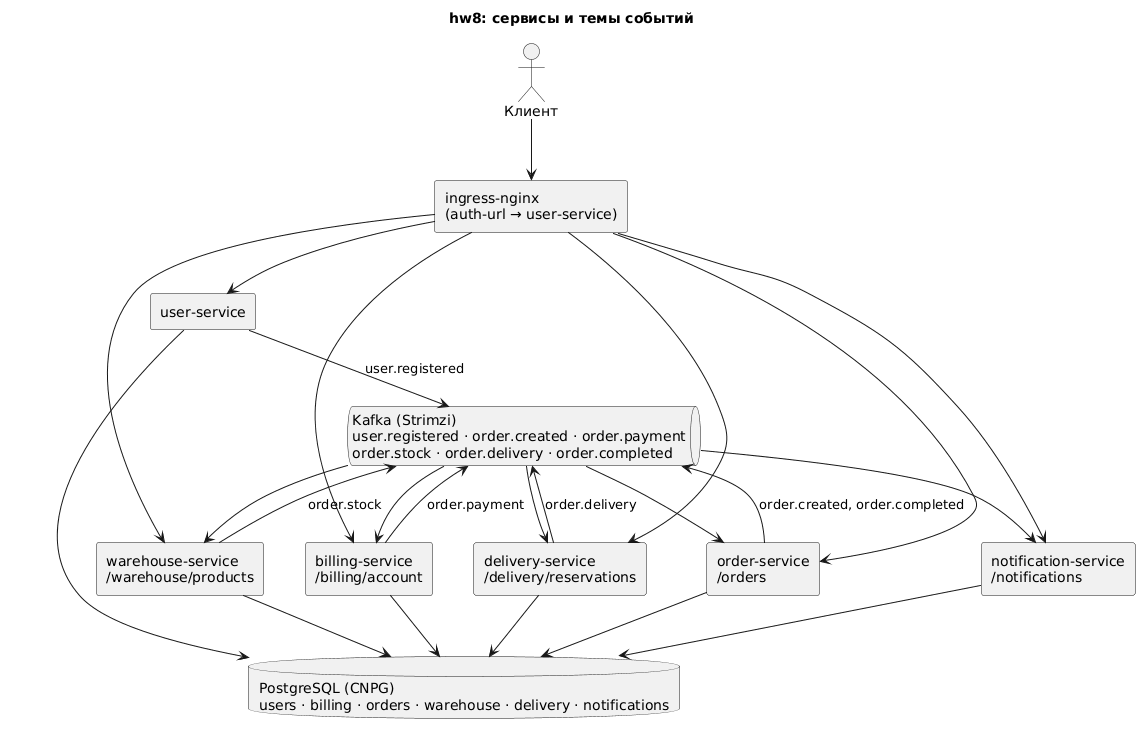
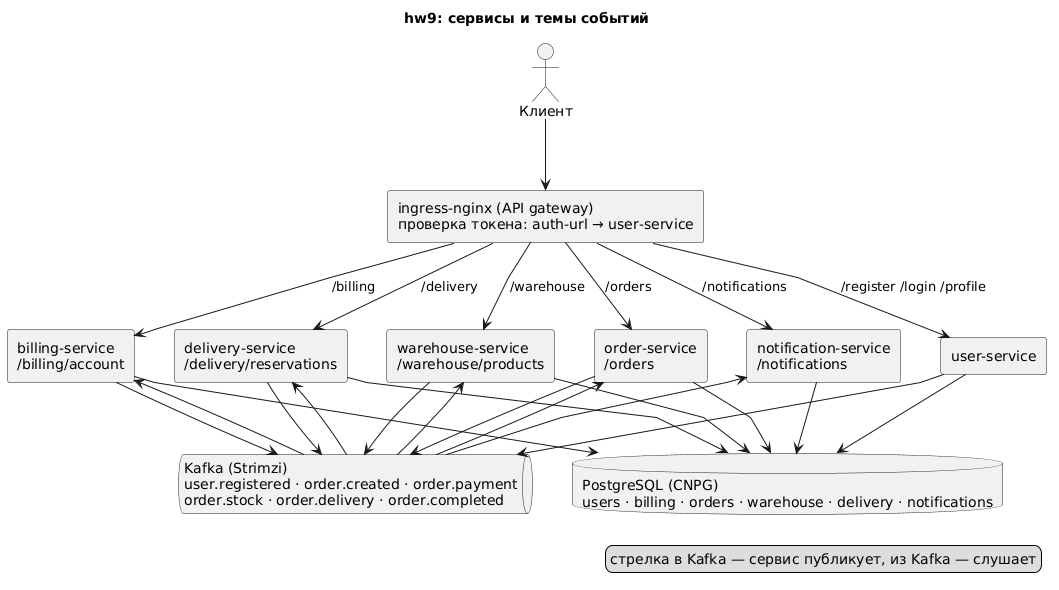
hw9: общий helm-чарт сервисов с values на сервис, схема архитектуры, самодостаточный README с двумя путями установки, порядком удаления и пояснением к повтору событий.

diff --git a/hw9-idempotency/README.md b/hw9-idempotency/README.md
@@ -1,6 +1,7 @@
 # Идемпотентное создание заказа
 
-Сервисы из hw8 без изменений, кроме order-service: метод `POST /orders` стал идемпотентным.
+Те же шесть сервисов, что в саге заказа, с одним изменением в order-service: метод
+`POST /orders` стал идемпотентным.
 Повтор запроса с тем же ключом не создаёт второй заказ, не списывает деньги второй раз и не
 запускает сагу повторно, а возвращает уже созданный заказ.
 
@@ -22,32 +23,70 @@
 транзакции базы заказов, так что два одновременных запроса с одним ключом упрутся в первичный
 ключ `(user_id, key)`, и второй завершится ошибкой вместо дубля.
 
-Что идемпотентно уже с hw8 и почему этого не хватало. В очередях ключ сообщений во всех темах
-саги — `orderId`, а переходы заказа однонаправленные: событие для уже завершённого заказа
-игнорируется, поэтому повторная доставка события не ломает состояние. Но HTTP-вход саги
-защищён не был: два одинаковых `POST /orders` давали два заказа и два списания. Ключ
-идемпотентности закрывает именно эту дыру.
+Почему ключ нужен именно на HTTP-входе. Внутри саги повтор события не страшен: в
+`OrderService.applyStep` заказ в статусе `CONFIRMED` или `CANCELLED` больше не меняется, так
+что если Kafka доставит итог шага второй раз, он будет проигнорирован; ключ сообщений во всех
+темах — `orderId`, поэтому события одного заказа читаются по порядку. А вот вход саги
+защищён не был: два одинаковых `POST /orders` (клиент повторил запрос после таймаута) давали
+два заказа и два списания. Ключ идемпотентности закрывает именно этот случай.
+
+## Архитектура
+
+![Схема](docs/architecture.png)
+
+Шесть сервисов (user, billing, order, warehouse, delivery, notification) в namespace `msa`,
+у каждого своя база в одном кластере PostgreSQL, общая Kafka. Клиент ходит ко всем сервисам
+по HTTP через ingress-nginx, на защищённых путях тот проверяет JWT запросом в user-service
+(`auth-url`) и подставляет `X-User-Id`. Между собой сервисы общаются только событиями: заказ
+проходит сагу `order.created` → `order.payment` → `order.stock` → `order.delivery` →
+`order.completed` с компенсациями при отказе (схема в `docs/saga.png`).
 
 ## API
 
-Как в hw8, изменился только `POST /orders`:
+Все пути, кроме `/register`, `/login` и `/health`, требуют `Authorization: Bearer <token>`.
+Изменился только `POST /orders`.
 
-| Метод | Путь | Заголовки | Ответ |
-|---|---|---|---|
-| `POST /orders` | `{price, productId, quantity, slot}` | `Authorization: Bearer …`, `Idempotency-Key: <до 128 символов>` | 201 заказ; повтор — 201 тот же заказ; другое тело — 422; без ключа — 400 |
+| Метод | Путь | Ответ |
+|---|---|---|
+| `POST /register` | `{username, password, firstName, lastName, email, phone}` | 201 пользователь |
+| `POST /login` | `{username, password}` | 200 `{token, expiresIn}` |
+| `GET /billing/account`, `POST /billing/account/deposit {amount}` | | 200 `{userId, balance}` |
+| `POST /orders` | `{price, productId, quantity, slot}` + заголовок `Idempotency-Key` (до 128 символов) | 201 заказ `NEW`; повтор с тем же ключом — 201 тот же заказ; другое тело — 422; без ключа — 400 |
+| `GET /orders`, `GET /orders/{id}` | | `status`: `NEW`, `PAID`, `RESERVED`, `CONFIRMED`, `CANCELLED` + `reason` |
+| `GET /warehouse/products`, `GET /warehouse/products/{id}` | | `{id, name, available}` |
+| `GET /delivery/reservations` | | резервы курьера пользователя |
+| `GET /notifications` | | письма пользователя |
 
 ## Состав
 
-- `services/order-service/` — пакет `idempotency` (сущность ключа, репозиторий, отпечаток
-  запроса, исключение), миграция `V3__idempotency_keys.sql`, проверка ключа в
-  `OrderService.create`. Остальные сервисы как в hw8, образы с тегом `hw9`.
-- `k8s/`, `kafka/`, `db/`, `docs/` — как в hw8.
+- `services/<имя>/` — шесть Gradle-проектов; в order-service добавлен пакет `idempotency`
+  (сущность ключа, репозиторий, отпечаток запроса, исключение), миграция
+  `V3__idempotency_keys.sql` и проверка ключа в `OrderService.create`. Образы `boldyrevma/<имя>:hw9`.
+- `k8s/` — namespace, Secret, пять `Database`, шесть `KafkaTopic`, по файлу на сервис,
+  два Ingress; `kafka/kafka.yaml` — Kafka для Strimzi; `db/` — values CloudNativePG.
+- `helm/service/` — общий чарт сервиса, `helm/values/<имя>.yaml` — значения шести сервисов.
+- `docs/` — схемы саги и архитектуры; `kind/`, `ingress-nginx/` — кластер и ingress-контроллер.
 - `postman/order-idempotency.postman_collection.json` — сценарий; `postman/newman-output.txt`
   — вывод прогона.
 
+## Кластер и ingress-nginx
+
+```bash
+minikube start --driver=docker --ports=127.0.0.1:80:80,127.0.0.1:443:443 --memory 6g
+# или: kind create cluster --config kind/cluster.yaml
+# в /etc/hosts: 127.0.0.1 arch.homework
+
+kubectl create namespace m
+helm repo add ingress-nginx https://kubernetes.github.io/ingress-nginx/
+helm repo update
+helm install nginx ingress-nginx/ingress-nginx --namespace m -f ingress-nginx/values.yaml
+kubectl -n m rollout status daemonset/nginx-ingress-nginx-controller
+```
+
 ## Установка
 
-Namespace приложения `msa`, операторы в `cnpg-system` и `kafka`; команды те же, что в hw8:
+Namespace приложения `msa`, операторы в своих: CloudNativePG в `cnpg-system`, Strimzi в
+`kafka` (он следит за ресурсами Kafka в `msa`).
 
 ```bash
 helm repo add cnpg https://cloudnative-pg.github.io/charts
@@ -66,11 +105,39 @@ helm install msa-db cnpg/cluster --namespace msa -f db/values.yaml
 kubectl apply -f kafka/kafka.yaml
 kubectl -n msa wait cluster/msa-db --for=condition=Ready --timeout=300s
 kubectl -n msa wait kafka/msa-kafka --for=condition=Ready --timeout=600s
+```
 
+Сервисы, путь 1: манифестами. Одна команда применяет всё по порядку номеров: базы, темы,
+миграции, приложения, Ingress; Job и поды дожидаются базы через initContainer:
+
+```bash
 kubectl apply -f k8s/
 kubectl -n msa wait job --all --for=condition=complete --timeout=300s
 kubectl -n msa rollout status deployment --timeout=300s
 ```
+
+Сервисы, путь 2: общим чартом. Чарт `helm/service` описывает ConfigMap, Job миграций,
+Deployment и Service, различия между сервисами (образ, база, секреты) лежат в
+`helm/values/<имя>.yaml`, имя релиза становится именем сервиса, на него ссылаются Ingress.
+Базы, темы и Ingress остаются манифестами, чарт ставится шесть раз:
+
+```bash
+kubectl apply -f k8s/02-databases.yaml -f k8s/03-kafka-topics.yaml
+helm install user-service helm/service --namespace msa -f helm/values/user-service.yaml
+helm install billing-service helm/service --namespace msa -f helm/values/billing-service.yaml
+helm install order-service helm/service --namespace msa -f helm/values/order-service.yaml
+helm install warehouse-service helm/service --namespace msa -f helm/values/warehouse-service.yaml
+helm install delivery-service helm/service --namespace msa -f helm/values/delivery-service.yaml
+helm install notification-service helm/service --namespace msa -f helm/values/notification-service.yaml
+kubectl apply -f k8s/40-ingress.yaml -f k8s/41-ingress-auth.yaml
+kubectl -n msa wait job --all --for=condition=complete --timeout=300s
+kubectl -n msa rollout status deployment --timeout=300s
+```
+
+Один чарт вместо шести копий: шаблоны одни, различается только values. В продуктовой
+раскладке такие шаблоны выносят в library-чарт, а чарт каждого сервиса держат рядом с его
+кодом; здесь это был бы лишний слой. Обновление сервиса — `helm upgrade` с новым тегом
+образа, Job миграций создаётся заново с номером ревизии.
 
 Образы собираются и публикуются из каждого `services/<имя>`: `./gradlew build`,
 `docker build --platform linux/amd64 -t boldyrevma/<имя>:hw9 .`, `docker push boldyrevma/<имя>:hw9`.
@@ -83,14 +150,25 @@ newman run postman/order-idempotency.postman_collection.json --verbose
 
 Сценарий: регистрация, вход, пополнение на 100; заказ без ключа — 400; заказ с ключом — 201;
 повтор с тем же ключом и телом — 201 и тот же `id`; тот же ключ с другой ценой — 422; через
-три секунды в списке ровно один заказ в статусе `CONFIRMED` и баланс 70, то есть списание
+несколько секунд (сага проходит через Kafka) в списке ровно один заказ в статусе `CONFIRMED` и баланс 70, то есть списание
 одно; новый ключ — новый заказ.
 
 ## Удаление
 
+Темы Kafka удаляются первыми, пока жив topic operator: у `KafkaTopic` стоит его финализатор, и
+если удалить namespace целиком, темы останутся висеть и не дадут namespace исчезнуть.
+
 ```bash
-kubectl delete -f k8s/
+kubectl delete -f k8s/03-kafka-topics.yaml
+helm uninstall user-service billing-service order-service warehouse-service delivery-service notification-service -n msa   # только при установке чартом
+helm uninstall msa-db --namespace msa
+kubectl delete -f k8s/                       # приложения, базы, Kafka, namespace msa с томами
 helm uninstall strimzi --namespace kafka && kubectl delete namespace kafka
 helm uninstall cnpg --namespace cnpg-system && kubectl delete namespace cnpg-system
 helm uninstall nginx --namespace m && kubectl delete namespace m
 ```
+
+Если после удаления namespace `msa` ставить приложение заново, не переустанавливая Strimzi,
+сначала повторите `helm upgrade strimzi ...` с теми же параметрами: оператор держит свои
+права (RoleBinding) внутри наблюдаемого namespace, они исчезают вместе с ним, и без этого
+шага Kafka в новом `msa` не создастся.
